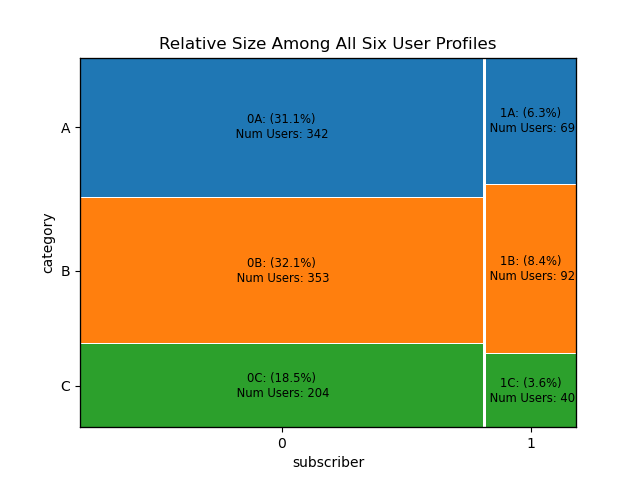
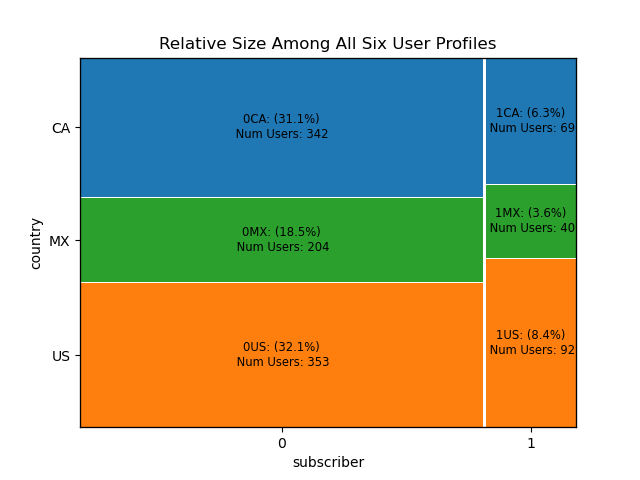
Updated countries

diff --git a/mobile_app_correlation.html b/mobile_app_correlation.html
@@ -188,13 +188,13 @@
 										</tr>
 										<tr>
 											<td>
-												category
+												country
 											</td>
 											<td>
-												VARCHAR(1)
+												VARCHAR(2)
 											</td>
 											<td>
-												A variable that identifies whether the userid falls in category 'A', 'B', or 'C'
+												A variable that identifies whether the userid is from 'CA' (Canada), 'US' (United States), or 'MX' (Mexico)
 											</td>
 										</tr>
 									</table>
@@ -273,7 +273,7 @@
 									<br>
 									<br>
 									<p>
-										For the purposes of this project, I'll define a user's performance as their yearly point total and explore if there's any correlation with the value of subscriber or category.
+										For the purposes of this project, I'll define a user's performance as their yearly point total and explore if there's any correlation with the value of subscriber or country.
 									</p>
 									<h4>
 										Joining Tables
@@ -293,7 +293,7 @@ WITH total_points_per_user AS (
 
    SELECT u.userid
         , u.subscriber
-        , u.category
+        , u.country
         , COALESCE(tp.total_points, 0) AS total_points
      FROM users AS u
 LEFT JOIN total_points_per_user AS tp
@@ -303,7 +303,7 @@ LEFT JOIN total_points_per_user AS tp
 											<div class="col-6 col-12-medium">
 												<section class="middle">
 													<p>
-														Information on whether a user is a subscriber and which category they fall in is in the users table, but information on point scores is in the event_performance table, so the two tables have to be joined before any investigation into correlation can happen. Because there may be userids in the users table who have never participated in a gaming event and thus have no entries in the event_performance table, a LEFT JOIN is needed to ensure all userids from the users table make it into the joined table. 
+														Information on whether a user is a subscriber and which country they fall in is in the users table, but information on point scores is in the event_performance table, so the two tables have to be joined before any investigation into correlation can happen. Because there may be userids in the users table who have never participated in a gaming event and thus have no entries in the event_performance table, a LEFT JOIN is needed to ensure all userids from the users table make it into the joined table. 
 													</p>
 													<p>
 														Any userids that aren't found in the event_performance table would normally be assigned NULL values, but these users have no matching entries because they've never played in a gaming event.  If they've never played in a gaming event, then their yearly point total should be 0, and COALESCE is used to make this happen.  
@@ -317,13 +317,13 @@ LEFT JOIN total_points_per_user AS tp
 										Visualizing the Yearly Point Distribution
 									</h4>
 									<p>
-										These boxplots compare the yearly point totals for subscribers against non-subscribers, as well as users in category A against those in category B against those in category C.  Userids that had yearly point totals less than $Q_1 - 1.5 \cdot \text{IQR}$ or more than $Q_3 + 1.5 \cdot \text{IQR}$ are considered outliers and are represented by the circles that lay beyond the whiskers.  Pay extra close attention to these, as they'll become important soon. 
+										These boxplots compare the yearly point totals for subscribers against non-subscribers, as well as users in Canada against those in the US against those in Mexico.  Userids that had yearly point totals less than $Q_1 - 1.5 \cdot \text{IQR}$ or more than $Q_3 + 1.5 \cdot \text{IQR}$ are considered outliers and are represented by the circles that lay beyond the whiskers.  Pay extra close attention to these, as they'll become important soon. 
 									</p>
 									<div class="split left">
 										<div class="row">
 											<div class="col-6 col-12-medium">
 												<section class="first">
-													<img src="images/mobile_app_data/subscriber_category_yearly_points_boxplot.png" alt="" style="width: 100%; display:block; margin-left: auto; margin-right: auto;"/>
+													<img src="images/mobile_app_data/subscriber_country_yearly_points_boxplot.png" alt="" style="width: 100%; display:block; margin-left: auto; margin-right: auto;"/>
 												</section>
 											</div>
 											<div class="col-6 col-12-medium">
@@ -332,20 +332,20 @@ LEFT JOIN total_points_per_user AS tp
 														The first boxplot shows roughly the same spread of point totals regardless of whether a user is a subscriber or not. The medians are close, and the overall distribution of point totals is pretty similar. My initial impression is that there's either no correlation or a weak correlation between whether a user is a subscriber and their yearly point totals.
 													</p>
 													<p>
-														On the other hand, the second boxplot shows more noticeable differences between the three categories: A, B, and C. Category A and B have fairly similar performance, although category A has a little less variability than category B. However, category C is quite different and is the most interesting.
+														On the other hand, the second boxplot shows more noticeable differences between the three countries: CA (Canada), US (United States), and MX (Mexico). Canada and the United States have fairly similar performance, although Canada has a little less variability than the US. However, Mexico is quite different and is the most interesting.
 													</p>
 													<p>
-														The plot reveals point totals for category C are skewed right and look to be the strongest performing group.  Very few users in this category have yearly point totals that are negative, and therefore these users must be consistently contributing to the human team's bottom line.
+														The plot reveals point totals for Mexico are skewed right and look to be the strongest performing group.  Very few users in this country have yearly point totals that are negative, and therefore these users must be consistently contributing to the human team's bottom line.
 													</p>
 													<p>
-														Additionally, category C contains the users with the 9 highest point totals of the year, and it seems unlikely for that to be a coincidence.  This can be seen in the graph, where the red line represents the 9th highest point total of the year.  The nine players who scored at least that many points are represented by the colored circles to the right.
+														Additionally, Mexico contains the users with the 9 highest point totals of the year, and it seems unlikely for that to be a coincidence.  This can be seen in the graph, where the red line represents the 9th highest point total of the year.  The nine players who scored at least that many points are represented by the colored circles to the right.
 													</p>
 												</section>
 											</div>
 										</div>
 										<br>
 										<p>
-											While nothing is definitive yet, it's starting to look like there could be some correlation between a user's attributes and yearly point totals.  Category seems like it would have the strongest correlation, but subscriber may be important too.
+											While nothing is definitive yet, it's starting to look like there could be some correlation between a user's attributes and yearly point totals.  Country seems like it would have the strongest correlation, but subscriber may be important too.
 										</p>
 									</div>
 									<h4>
@@ -378,13 +378,13 @@ LEFT JOIN total_points_per_user AS tp
 										<div class="row">
 											<div class="col-6 col-12-medium">
 												<section class="first">
-													<img src="images/mobile_app_data/category_scatterplot.png" alt="" style="width: 100%; display:block; margin-left: auto; margin-right: auto;"/>
+													<img src="images/mobile_app_data/country_scatterplot.png" alt="" style="width: 100%; display:block; margin-left: auto; margin-right: auto;"/>
 												</section>
 											</div>
 											<div class="col-6 col-12-medium">
 												<section class="middle">
 													<p>
-														This scatterplot tells the same story as before but makes it even clearer.  Category C has by far the highest yearly point totals, while categories A and B are pretty similar to each other. Occasionally, there are those in category B who score highly too, but it's heavily dominated by users in category C.
+														This scatterplot tells the same story as before but makes it even clearer.  Mexico has by far the highest yearly point totals, while Canada and the US are pretty similar to each other. Occasionally, there are those in the US who score highly too, but it's heavily dominated by users in Mexico.
 													</p>
 													<p>
 														Pearson's correlation coefficient would be nice to measure the strength of the correlation here, but it can't be calculated on categorical data.  However, it can be calculated after encoding the categorical data using dummy variables.
@@ -407,7 +407,7 @@ LEFT JOIN total_points_per_user AS tp
 											<div class="col-6 col-12-medium">
 												<section class="middle">
 													<p>
-														Using Pandas, I encoded category as a dummy variable and calculated the correlation with yearly point totals.  Category C has a correlation of 0.5365, indicating a moderately positive correlation, and is the strongest correlation out of all the user attributes.  Category A and category B both have similar correlations of -0.2429 and -0.2147, respectively, indicating weak negative correlations.
+														Using Pandas, I encoded country as a dummy variable and calculated the correlation with yearly point totals.  Mexico has a correlation of 0.5365, indicating a moderately positive correlation, and is the strongest correlation out of all the user attributes.  Canada and the US both have similar correlations of -0.2429 and -0.2147, respectively, indicating weak negative correlations.
 													</p>
 													<p>
 														Everything observed so far is promising evidence of some correlation between user attributes and user performance; however, the relationship that's observed in the dataset could simply be the result of a fluke and not necessarily because a correlation truly exists.  To be certain beyond a reasonable doubt, hypothesis testing can be used.
@@ -465,9 +465,9 @@ LEFT JOIN total_points_per_user AS tp
 													<!-- <h4>SQL Code</h4> -->
 													<p>
 														<left>
-															$H_0$: category and total yearly points are not correlated
+															$H_0$: country and total yearly points are not correlated
 															<br>
-															$H_a$: category and total yearly points are correlated
+															$H_a$: country and total yearly points are correlated
 															<br>
 														</left>
 													</p>
@@ -477,10 +477,10 @@ LEFT JOIN total_points_per_user AS tp
 											<div class="col-6 col-12-medium">
 												<section class="middle">
 													<p>
-														At the $\alpha=0.05$ level of significance, a F-test is performed, and the results are shown.  The P-value is ~0, and the test statistic of 222.330 is so far into the rejection region that it can't be pictured in the graph.  The null hypothesis should be rejected, and there's sufficient evidence to conclude that category is a statistically significant predictor of yearly point totals.
+														At the $\alpha=0.05$ level of significance, a F-test is performed, and the results are shown.  The P-value is ~0, and the test statistic of 222.330 is so far into the rejection region that it can't be pictured in the graph.  The null hypothesis should be rejected, and there's sufficient evidence to conclude that country is a statistically significant predictor of yearly point totals.
 													</p>
 													<p>
-														Now that hypothesis testing has indicated both subscriber and category are statistically significant, regression modeling can be performed to quantify these relationships.
+														Now that hypothesis testing has indicated both subscriber and country are statistically significant, regression modeling can be performed to quantify these relationships.
 													</p>
 												</section>
 											</div>
@@ -501,7 +501,7 @@ LEFT JOIN total_points_per_user AS tp
 											<div class="col-6 col-12-medium">
 												<section class="middle">
 													<p>
-														In order to avoid the dummy variable trap, regression has to be performed using all but one level of the dummy variable, which acts as the baseline level for comparison.  In this model, category A represents the baseline level for the dummy variable, and any coefficients of the model must be interpreted relative to that category.
+														In order to avoid the dummy variable trap, regression has to be performed using all but one level of the dummy variable, which acts as the baseline level for comparison.  In this model, Canada represents the baseline level for the dummy variable, and any coefficients of the model must be interpreted relative to that country.
 													</p>
 												</section>
 											</div>
@@ -520,15 +520,15 @@ LEFT JOIN total_points_per_user AS tp
 											<br>
 											<li>
 												$x_2 = \left\{\begin{aligned} 
-													1 &\text{ if userid is in category B} \\
-													0 &\text{ if userid is not in category B}
+													1 &\text{ if userid is from the US} \\
+													0 &\text{ if userid is not from the US}
 												\end{aligned} \right.$
 											</li>
 											<br>
 											<li>
 												$x_3 = \left\{\begin{aligned} 
-													1 &\text{ if userid is in category C} \\
-													0 &\text{ if userid is not in category C}
+													1 &\text{ if userid is from Mexico} \\
+													0 &\text{ if userid is not from Mexico}
 												\end{aligned} \right.$
 											</li>
 											<br>
@@ -540,22 +540,22 @@ LEFT JOIN total_points_per_user AS tp
 										Interpreting the Model
 									</h4>
 									<p>
-										Understanding how to interpret the model will help understand the relationship between user attributes and user performance.  When $x_1, x_2$, and $x_3$ are all set to 0, you have your baseline user, a non-subscriber, who is neither in category B nor in category C; therefore, they must be in category A.  For this kind of user, the model's predicted yearly point total would simply be the constant 114.4202.  
+										Understanding how to interpret the model will help understand the relationship between user attributes and user performance.  When $x_1, x_2$, and $x_3$ are all set to 0, you have your baseline user, a non-subscriber, who is neither in the US nor in Mexico; therefore, they must be in Canada.  For this kind of user, the model's predicted yearly point total would simply be the constant 114.4202.  
 									</p>
 									<p>
-										If $x_2$ is set to 1 and all other variables remain 0, then this would represent a non-subscriber in category B.  For this kind of user, the predicted yearly point total would increase by the coefficient of 617.8321 points.  This indicates that, on average, non-subscribers in category B earn 617.8321 points more than non-subscribers in category A.  This echoes what was seen earlier regarding there not being much difference in point scores between users in these categories.
+										If $x_2$ is set to 1 and all other variables remain 0, then this would represent a non-subscriber in the US.  For this kind of user, the predicted yearly point total would increase by the coefficient of 617.8321 points.  This indicates that, on average, non-subscribers in the US earn 617.8321 points more than non-subscribers in Canada.  This echoes what was seen earlier regarding there not being much difference in point scores between users in these countries.
 									</p>
 									<p>
-										When $x_3$ is set to 1 and all other variables remain 0, the user is a non-subscriber in category C.  For this kind of user, the model would predict a yearly point total of 22,002.314 points higher than the baseline user.  This is the largest coefficient of the model and emphasizes just how strong the performance of users in category C really is.
+										When $x_3$ is set to 1 and all other variables remain 0, the user is a non-subscriber in Mexico.  For this kind of user, the model would predict a yearly point total of 22,002.314 points higher than the baseline user.  This is the largest coefficient of the model and emphasizes just how strong the performance of users in Mexico really is.
 									</p>
 									<p>
-										When $x_1 = 1$, this indicates the user is a subscriber.  Users of any category can be subscribers; therefore, regardless of the values of $x_2$ or $x_3$, $x_1$ could be set to one and "turned on".  Turning on $x_1$ would increase the model's prediction of yearly point totals by its coefficient of 7258.8017, meaning that a subscribing user is predicted to earn that many points more than a non-subscribing user from the same category.  Despite earlier identifying subscriber as having a weak correlation, it produces the second largest effect on predicted yearly point totals in this model and looks to be more important than was initially thought.
+										When $x_1 = 1$, this indicates the user is a subscriber.  Users of any country can be subscribers; therefore, regardless of the values of $x_2$ or $x_3$, $x_1$ could be set to one and "turned on".  Turning on $x_1$ would increase the model's prediction of yearly point totals by its coefficient of 7258.8017, meaning that a subscribing user is predicted to earn that many points more than a non-subscribing user from the same country.  Despite earlier identifying subscriber as having a weak correlation, it produces the second largest effect on predicted yearly point totals in this model and looks to be more important than was initially thought.
 									</p>
 									<h4>
 										Conclusions
 									</h4>
 									<p>
-										In summary, it seems as though the question of whether there's any correlation between user attributes and user performance has been answered.  Both subscriber and category are statistically significant predictors of a user's performance as measured through their yearly point totals.  The single best predictor is which category a user falls into, with category C being the most important; however, knowing whether a user is a subscriber or not is pretty important too.
+										In summary, it seems as though the question of whether there's any correlation between user attributes and user performance has been answered.  Both subscriber and country are statistically significant predictors of a user's performance as measured through their yearly point totals.  The single best predictor is which country a user falls into, with Mexico being the most important; however, knowing whether a user is a subscriber or not is pretty important too.
 									</p>
 								
 							</article>

diff --git a/mobile_app_data_analysis.html b/mobile_app_data_analysis.html
@@ -175,13 +175,13 @@
 										</tr>
 										<tr>
 											<td>
-												category
+												country
 											</td>
 											<td>
-												VARCHAR(1)
+												VARCHAR(2)
 											</td>
 											<td>
-												A variable that identifies whether the userid falls in category 'A', 'B', or 'C'
+												A variable that identifies which country the userid is from: 'CA' (Canada), 'US' (United States), or 'MX' (Mexico)
 											</td>
 										</tr>
 									</table>
@@ -330,12 +330,12 @@ ORDER BY num;</pre>
 GROUP BY subscriber
 ORDER BY subscriber;
 
-      SELECT category
+      SELECT country
                    , ROUND(COUNT(userid)::numeric / 
                              SUM(COUNT(userid)) OVER (), 3) AS proportion
          FROM users
-GROUP BY category
-ORDER BY category;</pre>
+GROUP BY country
+ORDER BY country;</pre>
 												</section>
 											</div>
 											<div class="col-6 col-12-medium">
@@ -346,7 +346,7 @@ ORDER BY category;</pre>
 										</div>
 									</div>
 									<p>
-										Two queries, the first grouping by subscriber and the second grouping by category, are needed to generate the data for the plot.  Using GROUP BY with COUNT(userid) will get the counts of each subgroup, but those will need to be divided by the total number of users in order to calculate the proportion of each subgroup.
+										Two queries, the first grouping by subscriber and the second grouping by country, are needed to generate the data for the plot.  Using GROUP BY with COUNT(userid) will get the counts of each subgroup, but those will need to be divided by the total number of users in order to calculate the proportion of each subgroup.
 									</p>
 									<p>
 										To do this, SUM(COUNT(userid)) OVER () is used.  Using OVER () tells SQL that the SUM should be performed as a window function and will therefore occur <i>after</i> the counts of each subgroup are calculated from the GROUP BY.  This ensures the SUM(COUNT(userid)) will add together the counts of each subgroup, thus giving the total count of all users that is needed to calculate the proportions.  Python's Matplotlib library is then used to create the bar chart.
@@ -359,10 +359,10 @@ ORDER BY category;</pre>
 												Subscriber -  Most common value is 0, a non-subscriber, by a significant majority (81.7%).
 											</li>
 											<li>
-												Category - Most common value is B (40.4%), but A isn't that far behind (37.4%).
+												Country - Most common value is B (40.4%), but A isn't that far behind (37.4%).
 											</li>
 											<li>
-												subscriber = 1 and category = C are the least common and have roughly the same proportions, 18% and 22% respectively.
+												subscriber = 1 and country = C are the least common and have roughly the same proportions, 18% and 22% respectively.
 											</li>
 										</ul>
 									<h4>
@@ -375,14 +375,14 @@ ORDER BY category;</pre>
 													<!-- <h4>SQL Code</h4> -->
 										<pre class="prettyprint lang-sql">
       SELECT subscriber
-                   , category
+                   , country
                    , ROUND(COUNT(userid)::numeric / 
                                   SUM(COUNT(userid)) OVER (), 3) AS proportion
          FROM users
-GROUP BY subscriber, category
-ORDER BY subscriber, category;</pre>
+GROUP BY subscriber, country
+ORDER BY subscriber, country;</pre>
 													<p>
-														Grouping by both subscriber and category and using the same SUM(COUNT(userid)) OVER () strategy from earlier, the proportions for each unique user profile can be calculated.  Python's statsmodels library is then used to create a mosaic plot for visualization.  
+														Grouping by both subscriber and country and using the same SUM(COUNT(userid)) OVER () strategy from earlier, the proportions for each unique user profile can be calculated.  Python's statsmodels library is then used to create a mosaic plot for visualization.  
 													</p>
 													<p>
 														In the mosaic plot, the proportion between the area of each of the six smaller rectangles and the area of the larger rectangle corresponds to the proportions of each of the subgroups 0A, 0B, 0C, 1A, 1B, and 1C to all users.  
@@ -399,17 +399,17 @@ ORDER BY subscriber, category;</pre>
 									</div>
 									<br>
 									<b>
-										<u>The plot reveals more about the relationship between subscriber and category:</u>
+										<u>The plot reveals more about the relationship between subscriber and country:</u>
 									</b>
 									<ul>
 										<li>
-											Most Common: 0B (with 0A not far behind)
+											Most Common: 0US (with 0CA not far behind)
 										</li>
 										<li>
-											Least Common: 1C
+											Least Common: 1MX
 										</li>
 										<li>
-											Regardless of whether a user is a subscriber, the most common category is B, then A, then C.
+											Regardless of whether a user is a subscriber, the most common country is the US, then CA, then MX.
 										</li>
 									</ul>
 									<h4>

diff --git a/mobile_app_data_cleaning.html b/mobile_app_data_cleaning.html
@@ -174,10 +174,10 @@
 													</tr>
 													<tr>
 														<td>
-															category
+															country
 														</td>
 														<td>
-															A variable that identifies whether the userid falls in category 'A', 'B', or 'C'
+															A variable that identifies which country a userid is from, either 'CA' (Canada), 'US' (United States), or 'MX' (Mexico)
 														</td>
 													</tr>
 												</table>
@@ -250,8 +250,8 @@
 											<section class="first">
 												<pre class="prettyprint lang-sql">
     DROP TABLE IF EXISTS users_staging;
-    CREATE TABLE users_staging (userid text, subscriber text, category text);
-    COPY users_staging(userid, subscriber, category)
+    CREATE TABLE users_staging (userid text, subscriber text, country text);
+    COPY users_staging(userid, subscriber, country)
     FROM '{working_dir}/data/users.csv'
     DELIMITER ','
     CSV HEADER;									</pre>
@@ -295,11 +295,11 @@
 										<div class="col-6 col-12-medium">
 											<section class="first">
 												<pre class="prettyprint lang-sql">
- SELECT userid, subscriber, category
+ SELECT userid, subscriber, country
     FROM users_staging
  WHERE userid IS NULL
          OR subscriber IS NULL
-         OR category IS NULL;						</pre>
+         OR country IS NULL;						</pre>
 											</section>
 										</div>
 										<div class="col-6 col-12-medium">
@@ -399,28 +399,28 @@
 									</p>
 								</div>
 								<h4>
-									category
+									country
 								</h4>
-								Because category is a single character string representing which category a user falls into, I would like it to be the <i>VARCHAR(1)</i> data type.
+								Because country is a two character string representing which country a user is from, I would like it to be the <i>VARCHAR(2)</i> data type.
 								<div class="split left">
 									<div class="row">
 										<div class="col-6 col-12-medium">
 											<section class="first">
 												<pre class="prettyprint lang-sql">
-  SELECT DISTINCT(category::VARCHAR(1))
+  SELECT DISTINCT(country::VARCHAR(2))
      FROM users_staging;						</pre>
      											
 											</section>
 										</div>
 										<div class="col-6 col-12-medium">
 											<section class="middle">
-												<img src="images/mobile_app_data/distinct_category_levels.png" alt="" style="width: 20%; display:block; margin-left: auto; margin-right: auto;"/>
+												<img src="images/mobile_app_data/distinct_country_levels.png" alt="" style="width: 20%; display:block; margin-left: auto; margin-right: auto;"/>
 
 											</section>
 										</div>
 									</div>
 									<p>
-										It converts to <i>VARCHAR(1)</i> with no problems, and all values in the dataset are either 'A', 'B', or 'C', as they're supposed to be.  Everything looks good here, too.
+										It converts to <i>VARCHAR(2)</i> with no problems, and all values in the dataset are either 'CA', 'US', or 'MX', as they're supposed to be.  Everything looks good here, too.
 									</p>
 								</div>
 								<h3>
@@ -631,16 +631,16 @@ DROP TABLE IF EXISTS users;
 CREATE TABLE users (
 	  userid VARCHAR(36) NOT NULL,
   subscriber int NOT NULL,
-  category VARCHAR(1) NOT NULL,
+  country VARCHAR(1) NOT NULL,
  PRIMARY KEY (userid),
   CONSTRAINT valid_subscriber CHECK (subscriber IN (0, 1)),
-  CONSTRAINT valid_category CHECK (category IN ('A', 'B', 'C'))
+  CONSTRAINT valid_country CHECK (country IN ('CA', 'US', 'MX'))
 	);
 
- INSERT INTO users(userid, subscriber, category)
+ INSERT INTO users(userid, subscriber, country)
       SELECT userid
            , subscriber
-           , category
+           , country
         FROM users_staging;						</pre>
 											</section>
 										</div>
@@ -671,13 +671,13 @@ CREATE TABLE users (
 															</ul>
 														</li>
 														<li>
-															category
+															country
 															<ul>
 																<li>
-																	Data type: <i>VARCHAR(1)</i>
+																	Data type: <i>VARCHAR(2)</i>
 																</li>
 																<li>
-																	Constraints: only non-null values of 'A', 'B', or 'C' are allowed
+																	Constraints: only non-null values of 'CA', 'US', or 'MX' are allowed
 																</li>
 															</ul>
 														</li>
